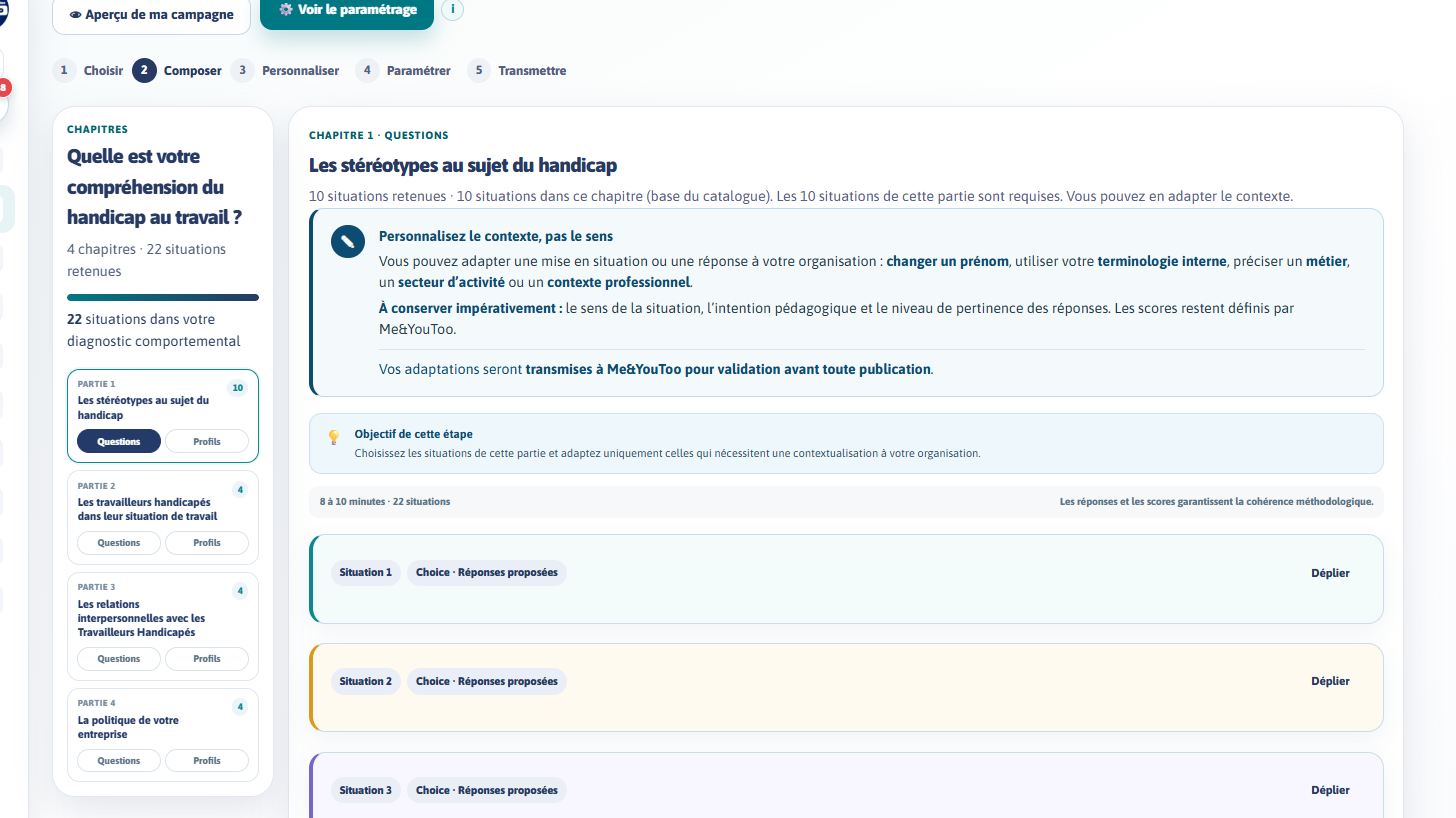
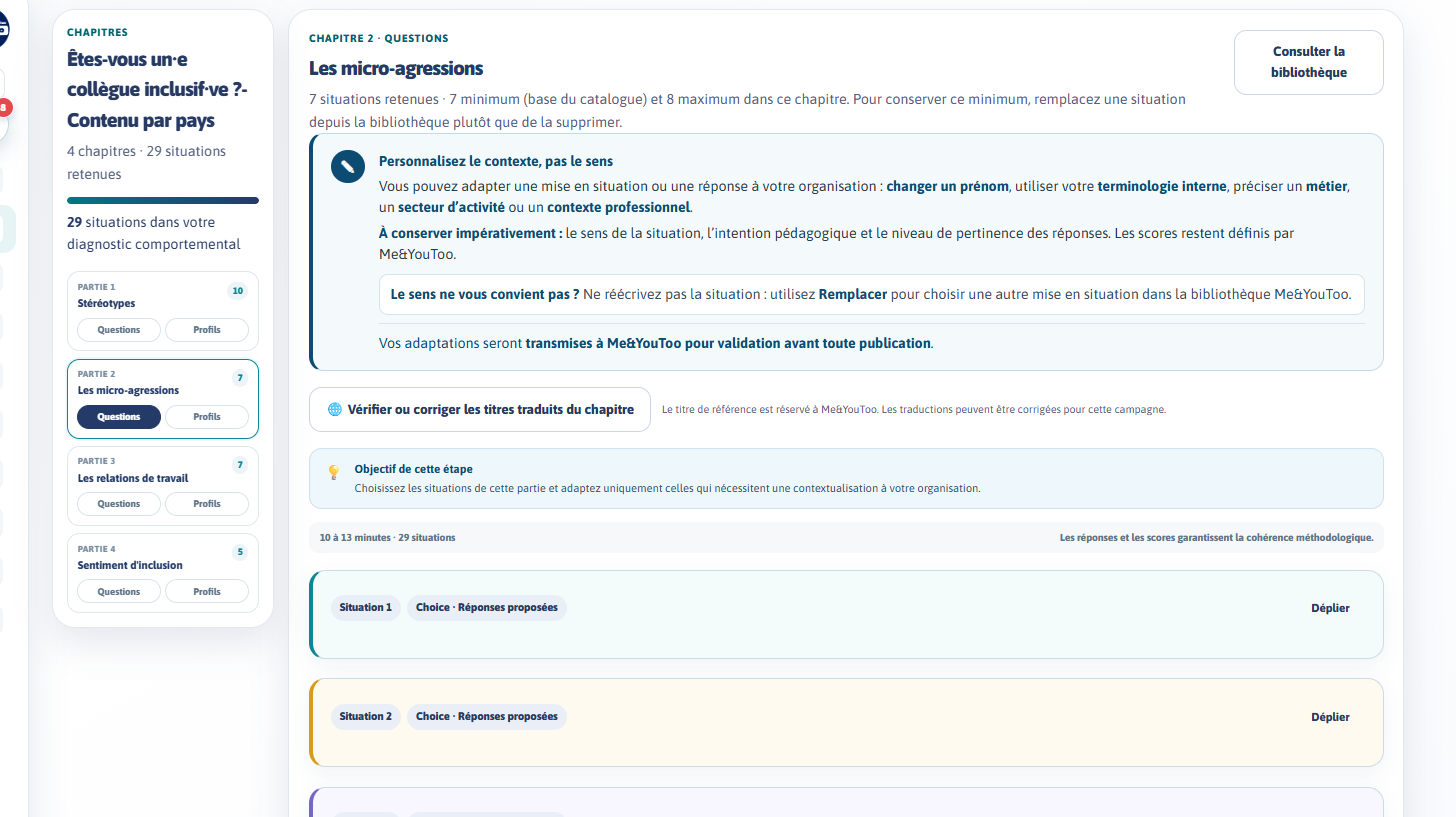
Tutoriel Composer : exemple Collègue inclusif France/Espagne, bibliothèque, remplacement et versions linguistiques

diff --git a/tutos/composer/index.html b/tutos/composer/index.html
@@ -10,24 +10,27 @@
 <body>
 <div class="tuto" id="tuto"></div>
 <script>
-// Captures du 3 novembre 2026 : compte de démonstration Fatou Diallo, Entreprise Exemple, campagne #347 (Handicap).
+// Captures du 3 novembre 2026 : compte de démonstration Fatou Diallo, Entreprise Exemple, campagne #349
+// (« Êtes-vous un·e collègue inclusif·ve ? » contenu par pays, France en français et Espagne en espagnol).
 // Cadres en % de la capture : [gauche, haut, largeur, hauteur]. Pour caler la voix : audio:'voix.mp3' et « at » (secondes) sur chaque plan.
 window.TUTO={
   eyebrow:'Tutoriel · Étape 2 sur 5',
   title:'Composer son diagnostic',
-  intro:'Chapitres, situations, réponses : comment partir des contenus Me&YouToo et les adapter à votre organisation. Environ 1 minute 30.',
+  intro:'Pays et langues, parties, situations, bibliothèque : comment partir des contenus Me&YouToo et les adapter à votre organisation. Environ 2 minutes.',
   scenes:[
-    {img:'ecran-1.png',box:[4.8,5.5,72,20],text:'Deuxième étape : composer votre diagnostic. Vous partez des contenus Me&YouToo et vous les adaptez, si besoin, à votre organisation.'},
-    {img:'ecran-1.png',box:[4.6,26.5,72,18.5],text:'En haut, le pays et la langue de votre campagne. Vous pouvez les modifier à tout moment.'},
-    {img:'ecran-2.png',box:[3.6,13,15.5,84.5],text:'À gauche, les chapitres de votre diagnostic. Cliquez sur « Questions » pour ouvrir les situations d’un chapitre.'},
-    {img:'ecran-2.png',box:[20.5,14.6,75.5,11],text:'Le Studio indique combien de situations sont retenues. Selon les thèmes, elles sont toutes requises ou vous choisissez celles à garder.'},
-    {img:'ecran-2.png',box:[21.2,25.2,74.5,24],text:'La règle d’or : personnalisez le contexte, pas le sens. Un prénom, un métier, votre vocabulaire interne : oui. Le sens et les scores restent ceux de Me&YouToo.'},
-    {img:'ecran-2.png',box:[21.2,65.2,74.5,11],text:'Dépliez une situation pour la lire.'},
-    {img:'ecran-3.png',box:[22.7,12,71.5,21],text:'Vous pouvez adapter le texte de la mise en situation à votre organisation. Si la campagne a plusieurs langues, vérifiez chaque version.'},
-    {img:'ecran-3.png',box:[22.7,39.3,71.5,60.5],text:'Affichez les réponses et les scores pour voir ce que choisiront vos collaborateurs. La réponse la plus appropriée est signalée en vert.'},
-    {img:'ecran-4.png',box:[22.7,56.5,71.5,8],text:'Les réponses peuvent aussi être adaptées, sans changer leur sens. Me&YouToo valide vos adaptations avant la publication.'},
-    {img:'ecran-4.png',box:[81.5,64.6,12.6,4.4],text:'Tout est enregistré automatiquement : vous pouvez vous arrêter et reprendre plus tard.'},
-    {img:'ecran-1.png',box:[15.5,60.7,8.5,4.5],text:'Quand vos chapitres vous conviennent, passez à l’étape suivante : personnaliser les profils.'}
+    {img:'ecran-1.png',box:[4.8,5,72,14],text:'Deuxième étape : composer votre diagnostic. Vous partez des contenus Me&YouToo et vous les adaptez, si besoin, à votre organisation.'},
+    {img:'ecran-1.png',box:[5,34,21.5,11.8],text:'Votre campagne couvre plusieurs pays ? Cliquez sur un pays pour composer sa version, dans sa langue.'},
+    {img:'ecran-2.png',box:[4.6,33,13.2,42],text:'À gauche, les parties de votre diagnostic. Cliquez sur « Questions » pour ouvrir les situations d’une partie.'},
+    {img:'ecran-2.png',box:[20.5,3.5,62,12.5],text:'Le Studio indique combien de situations garder : ici, entre sept et huit. Certaines parties sont entièrement obligatoires.'},
+    {img:'ecran-2.png',box:[21.2,16.4,74,29],text:'La règle d’or : personnalisez le contexte, pas le sens. Un prénom, un métier, votre vocabulaire interne : oui. Le sens et les scores restent ceux de Me&YouToo.'},
+    {img:'ecran-2.png',box:[84.8,3.6,10.3,8.2],text:'Pour aller plus loin, ouvrez la bibliothèque de situations Me&YouToo.'},
+    {img:'ecran-3.png',box:[63,13,32.5,49.5],text:'Cherchez par mot-clé, consultez les réponses et les scores, puis ajoutez une situation à la partie.'},
+    {img:'ecran-4.png',box:[22.7,12.2,71.5,20.5],text:'Dépliez une situation pour la lire. Vous pouvez adapter son texte à votre organisation.'},
+    {img:'ecran-4.png',box:[22.7,39.6,71.5,50],text:'Affichez les réponses et les scores : la réponse la plus appropriée est signalée en vert.'},
+    {img:'ecran-5.png',box:[22.7,49.2,16.2,5.6],text:'Le sens d’une situation ne vous convient pas ? Ne la réécrivez pas : remplacez-la depuis la bibliothèque.'},
+    {img:'ecran-6.png',box:[22.7,12.2,71.5,33.6],text:'En changeant de pays, vous retrouvez la même situation dans sa langue. Le bouton « Vérifier les versions linguistiques » permet de comparer avec le texte de référence.'},
+    {img:'ecran-5.png',box:[81.8,44.6,11.9,3.4],text:'Tout est enregistré automatiquement, et Me&YouToo valide vos adaptations avant la publication.'},
+    {img:'ecran-1.png',box:[15.5,61.5,8.5,4.5],text:'Quand vos parties vous conviennent, passez à l’étape suivante : personnaliser les profils.'}
   ],
   end:{title:'Votre diagnostic est composé',text:'Prochaine étape : personnaliser les profils que découvriront vos collaborateurs. Une question ? Le chat et l’équipe Me&YouToo sont là pour vous.'}
 };
